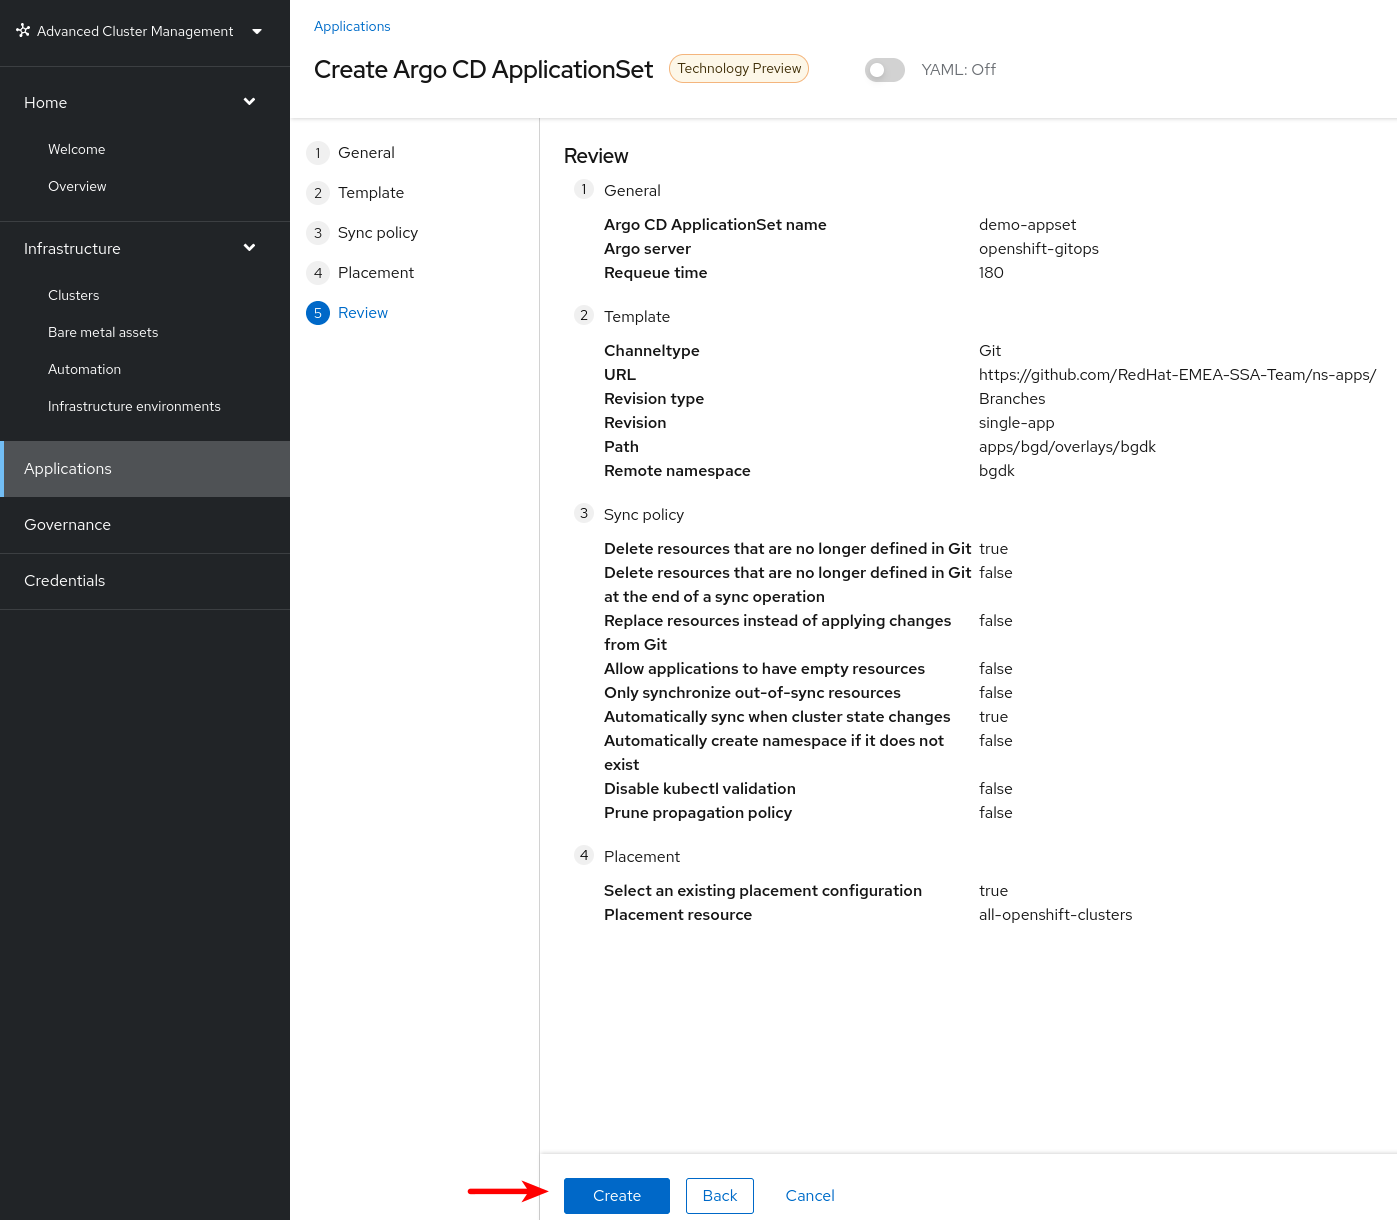
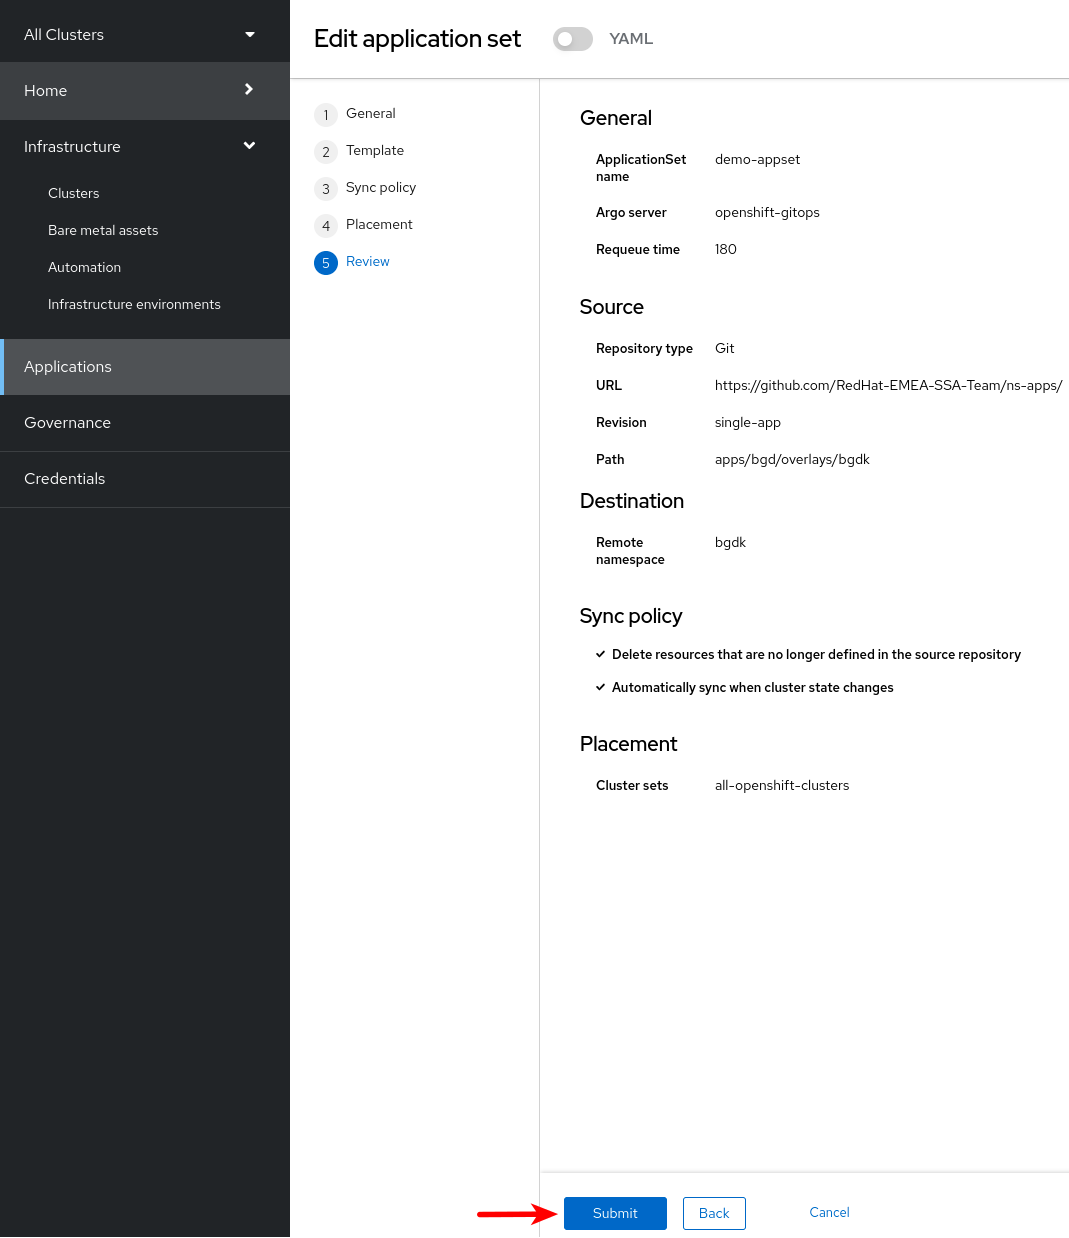
Adapting README to ACM version 2.5

diff --git a/README.md b/README.md
@@ -65,7 +65,8 @@ Let's start deploying !
 
 Once you click `Save`, ACM redirects you to the app dashboard, where you can see all the objects that compose the app and if they are correctly deployed.
 
-![app-sub-deploy-3](./images/acm/app-sub-deploy-3.png)
+![app-sub-deploy-3a](./images/acm/app-sub-deploy-3a.png)
+![app-sub-deploy-3b](./images/acm/app-sub-deploy-3b.png)
 
 ## Deploy ApplicationSets of Argo CD in ACM
 
@@ -120,13 +121,16 @@ Let’s start deploying the ApplicationSet !
 
     ![app-set-deploy-1](./images/acm/app-set-deploy-1.png)
 
+    > ![NOTE](images/note-icon.png) **NOTE**: the destination namespace could be any value. It’s not necessary for the applicationset itself (but mandatory for the ACM form), so it is better to leave the value `bgdk` to avoid misinterpretation, since `bgdk` is the namespace that will generate the app deployment itself.
+
 3. After clicking on `Create` you should be presented with the application. To check it, we can go to the applications menu:
 
     ![app-set-deploy-2](./images/acm/app-set-deploy-2.png)
 
-To see its evolution and if all the elements are correctly deployed in both clusters, we can do a drill down by clicking on one of them (the result is the same).
+To see its evolution and if all the elements are correctly deployed in both clusters, we can do a drill down by clicking on its name.
 
-![app-set-deploy-3](./images/acm/app-set-deploy-3.png)
+![app-set-deploy-3a](./images/acm/app-set-deploy-3a.png)
+![app-set-deploy-3b](./images/acm/app-set-deploy-3b.png)
 
 > ![INFO](images/info-icon.png) **INFO**: In this case we select the `Route` object, checking that it is deployed in both clusters and that we have direct access to the URL or even to be able to edit the `YAML` of the object itself.
 
